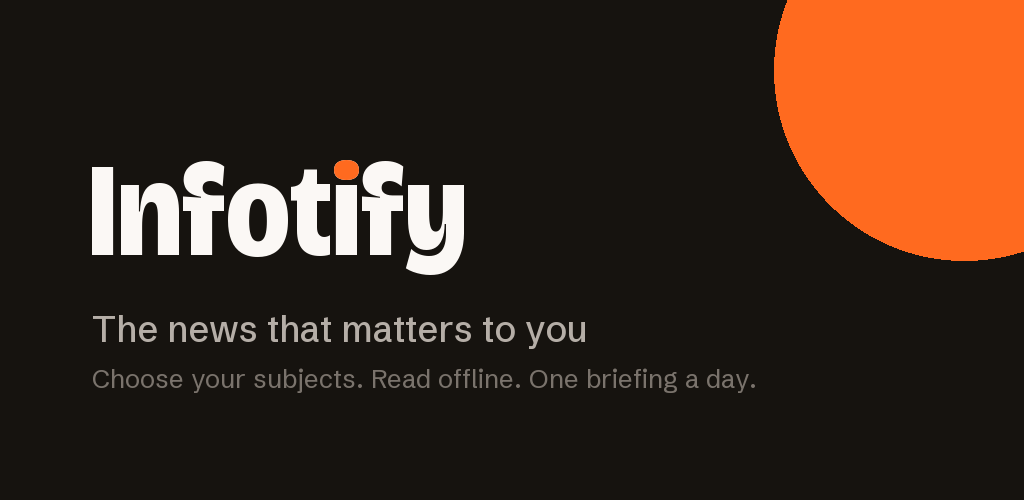
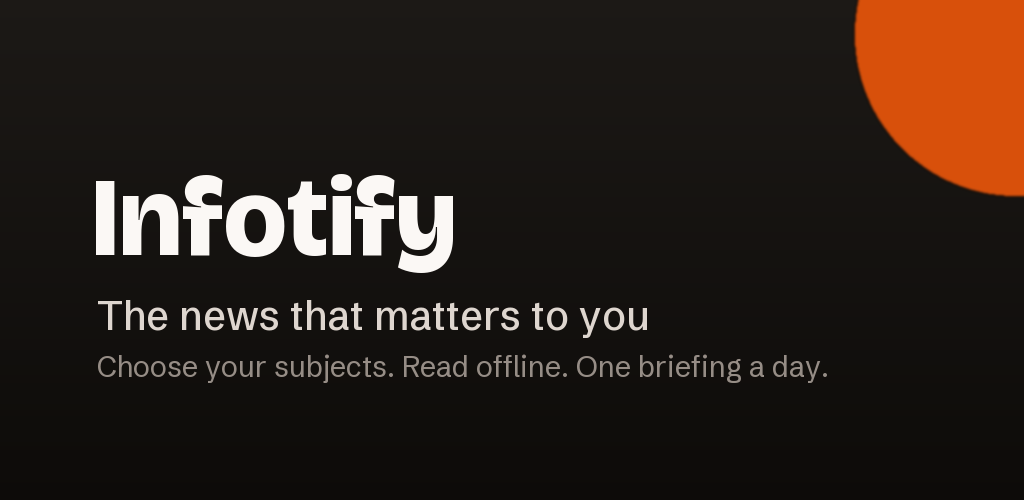
feat(playstore): a full listing asset set, generated from real captures
The listing had an icon and a feature graphic and nothing else. This adds the eight
phone screenshots Play shows in the carousel, and the script that produces all of it,
so a capture can be replaced without anyone reopening an image editor.

The icon changes. It was a separate drawing from the launcher icon — stem 15px off
its axis and 50px too tall — so the tile in the store and the tile on the home screen
were not the same mark. generate.py now renders the geometry straight out of
ic_launcher_foreground.xml, and both come from one source.

The captures are honest: the R8-minified releaseTest build on a Pixel 3a emulator
against the live proxy, with SystemUI demo mode so the status bar carries no real
device state. The phone chassis is drawn around each PNG rather than baked in, and
the phone's width is fixed while its height follows the file's own ratio — the same
mistake that stretched the website screenshots cannot happen here.

Two things are deliberately left open, both recorded in playstore/README.md: there
are no tablet screenshots, and screenshot-2 shows one empty grey thumbnail. That grey
box is the app's real behaviour today — a publisher image that never resolves leaves
the placeholder in place instead of collapsing as ArticleCard intends, because Coil
reports no Error state for it. Seen only on this emulator so far, whose clock is
visibly broken ("time of day goes back"), which is enough to stop OkHttp's timeouts
[…]

Changed region(s): [[0.75, 0.0, 1.0, 0.54], [0.0938, 0.6, 0.8125, 0.78], [0.0625, 0.3, 0.4688, 0.57]]

diff --git a/playstore/generate.py b/playstore/generate.py
@@ -1,0 +1,283 @@
+#!/usr/bin/env python3
+"""Generate the Play Store asset set for Infotify.
+
+Everything is drawn from the brand tokens the app itself uses, and every device shot is an
+unaltered capture: the phone chassis is drawn around the screenshot, never baked into it, so
+a capture can be replaced without redrawing a frame.
+"""
+import os
+from PIL import Image, ImageDraw, ImageFont, ImageFilter
+
+SRC = os.path.join(os.path.dirname(os.path.abspath(__file__)), "captures")
+OUT = os.path.dirname(os.path.abspath(__file__))
+FONTS = os.path.join(os.path.dirname(os.path.abspath(__file__)), os.pardir,
+                     "app", "src", "main", "res", "font")
+
+# Brand tokens — the same values Color.kt and site/style.css carry.
+PAPER = (250, 246, 242)
+INK = (19, 17, 16)
+INK_DEEP = (13, 11, 9)
+EMBER = (216, 80, 11)
+EMBER_BRIGHT = (255, 106, 56)
+MUTED_ON_PAPER = (107, 98, 91)
+MUTED_ON_INK = (162, 152, 144)
+PAPER_ON_INK = (246, 241, 236)
+CHASSIS = [(42, 39, 36), (22, 19, 15), (13, 11, 9)]
+
+
+def bricolage(size, weight=800, width=100):
+    f = ImageFont.truetype(f"{FONTS}/bricolage_grotesque.ttf", size)
+    # PIL orders the axes as declared in the font: opsz, wght, wdth.
+    f.set_variation_by_axes([96, weight, width])
+    return f
+
+
+def schibsted(size, weight=400):
+    f = ImageFont.truetype(f"{FONTS}/schibsted_grotesk.ttf", size)
+    f.set_variation_by_axes([weight])
+    return f
+
+
+def vertical_gradient(size, top, bottom):
+    w, h = size
+    grad = Image.new("RGB", (1, h))
+    px = grad.load()
+    for y in range(h):
+        t = y / max(h - 1, 1)
+        px[0, y] = tuple(round(top[i] + (bottom[i] - top[i]) * t) for i in range(3))
+    return grad.resize((w, h), Image.BILINEAR)
+
+
+def rounded_mask(size, radius, supersample=4):
+    """A rounded-rectangle mask drawn oversized and downsampled, so the corners are smooth."""
+    w, h = size
+    big = Image.new("L", (w * supersample, h * supersample), 0)
+    ImageDraw.Draw(big).rounded_rectangle(
+        (0, 0, w * supersample - 1, h * supersample - 1),
+        radius=radius * supersample,
+        fill=255,
+    )
+    return big.resize((w, h), Image.LANCZOS)
+
+
+def phone(screenshot, screen_w, bezel=13, radius=54):
+    """Wrap a capture in a device chassis. The capture keeps its own aspect ratio."""
+    sw, sh = screenshot.size
+    screen_h = round(screen_w * sh / sw)
+    screen = screenshot.resize((screen_w, screen_h), Image.LANCZOS).convert("RGB")
+
+    inner_radius = radius - bezel
+    screen.putalpha(rounded_mask((screen_w, screen_h), inner_radius))
+
+    body_w, body_h = screen_w + bezel * 2, screen_h + bezel * 2
+    body = vertical_gradient((body_w, body_h), CHASSIS[0], CHASSIS[2]).convert("RGBA")
+    body.putalpha(rounded_mask((body_w, body_h), radius))
+
+    # A hairline highlight along the top edge is what reads as machined metal rather than
+    # a flat grey outline.
+    edge = Image.new("RGBA", (body_w, body_h), (0, 0, 0, 0))
+    ImageDraw.Draw(edge).rounded_rectangle(
+        (0, 0, body_w - 1, body_h - 1), radius=radius, outline=(255, 255, 255, 34), width=2
+    )
+    body.alpha_composite(edge)
+    body.alpha_composite(screen, (bezel, bezel))
+    return body
+
+
+def drop_shadow(shape, blur=34, offset=(0, 22), opacity=118):
+    pad = blur * 3
+    w, h = shape.size
+    canvas = Image.new("RGBA", (w + pad * 2, h + pad * 2), (0, 0, 0, 0))
+    silhouette = Image.new("RGBA", (w, h), (0, 0, 0, opacity))
+    silhouette.putalpha(
+        Image.eval(shape.getchannel("A"), lambda a: a * opacity // 255)
+    )
+    canvas.alpha_composite(silhouette, (pad + offset[0], pad + offset[1]))
+    return canvas.filter(ImageFilter.GaussianBlur(blur)), pad
+
+
+def wrap(draw, text, font, max_width):
+    """Honour explicit newlines first; only the remainder is wrapped to the measure."""
+    if "\n" in text:
+        out = []
+        for part in text.split("\n"):
+            out.extend(wrap(draw, part, font, max_width))
+        return out
+    lines, line = [], ""
+    for word in text.split():
+        probe = f"{line} {word}".strip()
+        if draw.textlength(probe, font=font) <= max_width or not line:
+            line = probe
+        else:
+            lines.append(line)
+            line = word
+    if line:
+        lines.append(line)
+    return lines
+
+
+def screenshot_asset(capture, headline, subline, theme, out_name):
+    W, H = 1080, 1920
+    dark = theme == "dark"
+    ember_ground = theme == "ember"
+
+    if ember_ground:
+        canvas = vertical_gradient((W, H), EMBER_BRIGHT, EMBER).convert("RGBA")
+        title_c, sub_c = (255, 255, 255), (255, 233, 222)
+    elif dark:
+        # An ink chassis on an ink ground loses its silhouette, and a drop shadow cannot
+        # separate black from black. A low ember bloom behind the device does, and it is the
+        # only place the accent appears on this tile.
+        canvas = vertical_gradient((W, H), (34, 30, 27), INK_DEEP).convert("RGBA")
+        bloom = Image.new("RGBA", (W, H), (0, 0, 0, 0))
+        ImageDraw.Draw(bloom).ellipse((90, 620, 990, 1700), fill=EMBER + (86,))
+        canvas.alpha_composite(bloom.filter(ImageFilter.GaussianBlur(150)))
+        title_c, sub_c = PAPER_ON_INK, MUTED_ON_INK
+    else:
+        canvas = vertical_gradient((W, H), (255, 253, 251), PAPER).convert("RGBA")
+        title_c, sub_c = INK, MUTED_ON_PAPER
+
+    draw = ImageDraw.Draw(canvas)
+    margin = 84
+    text_w = W - margin * 2
+
+    title_font = bricolage(70, weight=800)
+    sub_font = schibsted(35, weight=400)
+
+    y = 132
+    for line in wrap(draw, headline, title_font, text_w):
+        draw.text((margin, y), line, font=title_font, fill=title_c)
+        y += 84
+    if subline:
+        y += 14
+        for line in wrap(draw, subline, sub_font, text_w):
+            draw.text((margin, y), line, font=sub_font, fill=sub_c)
+            y += 48
+
+    # Only the gesture pill is cropped away — 85px, measured, not guessed: it belongs to the
+    # system rather than the app. The navigation bar and its labels stay, because they are
+    # the app's own structure and the one thing a store visitor uses to read the layout.
+    shot = Image.open(capture)
+    shot = shot.crop((0, 0, shot.width, shot.height - 85))
+
+    device = phone(shot, screen_w=700)
+    shadow, pad = drop_shadow(device)
+    dx = (W - device.width) // 2
+    dy = max(y + 96, H - device.height + 10)
+
+    canvas.alpha_composite(shadow, (dx - pad, dy - pad))
+    canvas.alpha_composite(device, (dx, dy))
+
+    canvas.convert("RGB").save(os.path.join(OUT, out_name), optimize=True)
+    print(f"  {out_name}  {W}x{H}")
+
+
+def mark(height, supersample=4):
+    """The Infotify mark on a transparent ground, at any height.
+
+    One source of geometry for every asset: the numbers below are lifted from
+    ic_launcher_foreground.xml, so the store icon, the feature graphic and the installed
+    launcher icon are the same drawing rather than three that resemble each other.
+    Bounding box in viewport units: x 41.5..69.5, y 24.5..82 — 28 wide by 57.5 tall.
+    """
+    unit = height * supersample / 57.5
+    w = round(28 * unit)
+    h = round(57.5 * unit)
+    img = Image.new("RGBA", (w, h), (0, 0, 0, 0))
+    d = ImageDraw.Draw(img)
+    ox, oy = 41.5, 24.5  # move the viewport origin to the mark's own top-left
+    d.rounded_rectangle(
+        ((41.5 - ox) * unit, (52 - oy) * unit, (60.5 - ox) * unit, (82 - oy) * unit),
+        radius=2.5 * unit,
+        fill=(251, 248, 245, 255),
+    )
+    d.ellipse(
+        ((50.5 - ox) * unit, (24.5 - oy) * unit, (69.5 - ox) * unit, (43.5 - oy) * unit),
+        fill=(255, 106, 31, 255),
+    )
+    return img.resize((round(w / supersample), round(h / supersample)), Image.LANCZOS)
+
+
+def icon():
+    """The 512 store icon: the launcher vector, rendered — not redrawn.
+
+    The previous file was a different drawing (stem 15px off-axis and 50px too tall), so the
+    store icon and the installed icon did not match. They do now.
+    """
+    S = 512
+    img = Image.new("RGBA", (S, S), (22, 19, 15, 255))
+    m = mark(round(57.5 * S / 108))
+    img.alpha_composite(m, ((S - m.width) // 2 + round(3 * S / 108), (S - m.height) // 2))
+    img.convert("RGB").save(os.path.join(OUT, "icon-512x512.png"), optimize=True)
+    print(f"  icon-512x512.png  {S}x{S}")
+
+
+def feature_graphic():
+    """1024x500. Play crops this banner hard on some surfaces, so the lockup sits inside the
+    left two-thirds and the ember disc is decoration that is allowed to be cut.
+
+    No standalone mark here: the wordmark opens on the same "i" the mark is drawn from, so
+    setting them side by side reads as the letter twice rather than as a lockup.
+    """
+    W, H = 1024, 500
+    canvas = vertical_gradient((W, H), (28, 25, 22), INK_DEEP).convert("RGBA")
+
+    glow = Image.new("RGBA", (W, H), (0, 0, 0, 0))
+    ImageDraw.Draw(glow).ellipse((854, -128, 1178, 196), fill=EMBER + (255,))
+    canvas.alpha_composite(glow.filter(ImageFilter.GaussianBlur(1.5)))
+
+    draw = ImageDraw.Draw(canvas)
+    x = 92
+    draw.text((x, 150), "Infotify", font=bricolage(112, weight=800), fill=(251, 248, 245))
+    draw.text(
+        (x + 5, 290),
+        "The news that matters to you",
+        font=schibsted(40, weight=500),
+        fill=(222, 214, 207),
+    )
+    draw.text(
+        (x + 5, 348),
+        "Choose your subjects. Read offline. One briefing a day.",
+        font=schibsted(29, weight=400),
+        fill=(150, 141, 134),
+    )
+    canvas.convert("RGB").save(
+        os.path.join(OUT, "feature-graphic-1024x500.png"), optimize=True
+    )
+    print(f"  feature-graphic-1024x500.png  {W}x{H}")
+
+
+SHOTS = [
+    ('en_11_explore.png', 'Pick your subjects.\nSkip the rest.',
+     'Fifteen topics, five at a time.', 'ember',
+     'screenshot-1-explore.png'),
+    ('en_04_foryou.png', 'A front page that is\nactually yours',
+     'Thousands of publishers, filtered to what you read.', 'light',
+     'screenshot-2-for-you.png'),
+    ('en_03_briefing.png', 'One briefing a day',
+     'A single notification, at a time you choose.', 'light',
+     'screenshot-3-briefing.png'),
+    ('en_02_interests.png', 'Five subjects,\none tap each',
+     'Change them whenever you like.', 'light',
+     'screenshot-4-interests.png'),
+    ('en_06_search.png', 'Search every\npublisher at once',
+     'One query, the whole wire.', 'light',
+     'screenshot-5-search.png'),
+    ('en_05_saved.png', 'Save now,\nread later',
+     'Saved stories open without a connection.', 'light',
+     'screenshot-6-saved.png'),
+    ('en_10_feed_dark.png', 'Built for reading\nat night',
+     'A true dark theme, not a dimmed white page.', 'dark',
+     'screenshot-7-dark.png'),
+    ('en_07_settings.png', 'No account.\nNo tracking.',
+     'Nothing to sign up for, and nothing to opt out of.', 'light',
+     'screenshot-8-settings.png'),
+]
+
+if __name__ == "__main__":
+    os.makedirs(OUT, exist_ok=True)
+    print("Play Store assets:")
+    icon()
+    feature_graphic()
+    for capture, headline, subline, theme, name in SHOTS:
+        screenshot_asset(os.path.join(SRC, capture), headline, subline, theme, name)

diff --git a/playstore/README.md b/playstore/README.md
@@ -1,0 +1,50 @@
+# Play Store assets
+
+Everything Google Play asks for on the store listing, plus the script that produces it.
+
+| File | Size | Play field |
+|---|---|---|
+| `icon-512x512.png` | 512 × 512 | App icon |
+| `feature-graphic-1024x500.png` | 1024 × 500 | Feature graphic |
+| `screenshot-1-explore.png` … `screenshot-8-settings.png` | 1080 × 1920 | Phone screenshots |
+
+## Regenerating
+
+```bash
+python3 playstore/generate.py
+```
+
+Needs Pillow. It reads the raw captures from `captures/`, the fonts from
+`app/src/main/res/font/`, and overwrites the assets in place.
+
+## How these are made, and what stays true
+
+- **The icon is the launcher icon, rendered — not redrawn.** `generate.py` takes its geometry
+  from `app/src/main/res/drawable/ic_launcher_foreground.xml` (stem 41.5–60.5 × 52–82, dot at
+  (60, 34) r 9.5, on a 108-unit viewport), so the store icon and the installed icon are the
+  same drawing. They were not before: the previous 512 was a separate drawing whose stem sat
+  15 px off-axis and 50 px too tall.
+- **The device chassis is drawn around each capture, never baked into it.** Replacing a
+  screenshot means dropping a new PNG into `captures/` and re-running the script; no frame
+  has to be redrawn, and no capture is ever stretched — the phone width is fixed and the
+  height follows the file's own ratio.
+- **The captures are real.** Nothing is mocked up or retouched. They come from the
+  `releaseTest` build — the R8-minified one — running on a Pixel 3a emulator (1080 × 2220,
+  API 34) against the live `infotify-api.nativia.co` proxy, with SystemUI demo mode on so
+  the status bar reads 9:00 with a full battery instead of leaking a real device's state.
+- **Only the gesture pill is cropped** (85 px, measured). The navigation bar and its labels
+  stay: they are the app's own structure, and they are what a store visitor reads the layout
+  from.
+
+## Known gaps
+
+- **Tablet screenshots are not here.** Play wants 7-inch and 10-inch sets before it will show
+  the app as tablet-ready. They have to be captured on tablet emulators; nothing here can be
+  upscaled into them honestly.
+- **`screenshot-2-for-you.png` shows one empty grey thumbnail.** That is the app's real
+  current behaviour, not a capture artefact: a publisher image that never resolves leaves the
+  placeholder box in place instead of collapsing the way `ArticleCard` intends. Worth fixing
+  before this screenshot is final — see the note in the commit that added these files.
+- **The screenshots are English only.** The app ships `values-fr` as well; a French set means
+  re-running the walkthrough with `adb shell cmd locale set-app-locales com.thecode.infotify
+  --locales fr-FR` and a translated `SHOTS` table.
